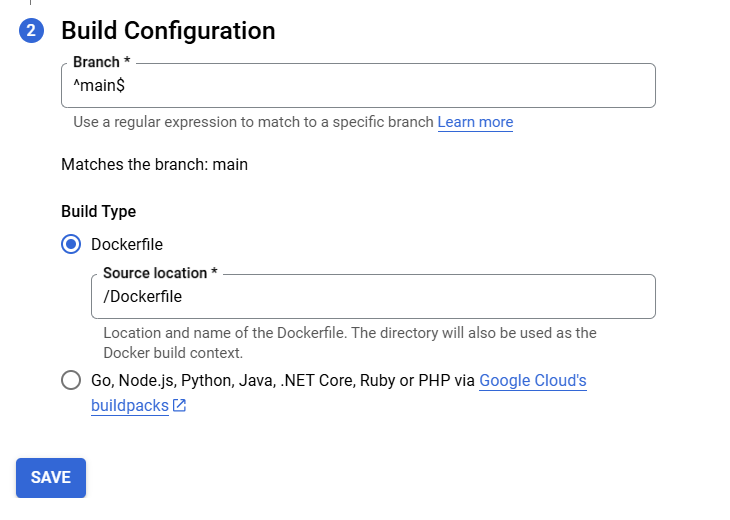
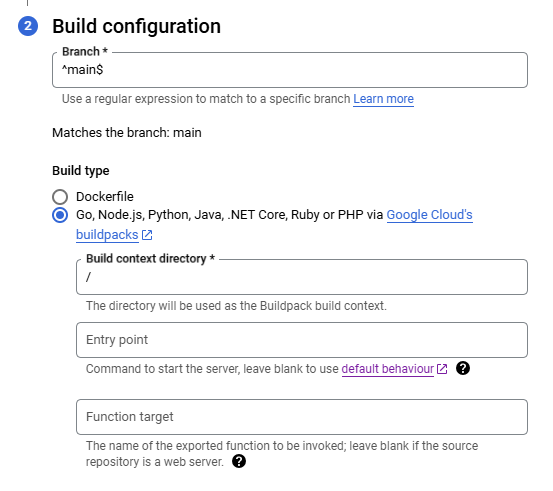
replace Dockerfile with Procfile and update instructions

diff --git a/README.md b/README.md
@@ -43,13 +43,13 @@ Step 5. Select the git repository
 
 ***
 
-Step 6. Tick the Dockerfile option
+Step 6. Select the "Google Cloud's buildpacks" option. Leave all the parameters empty: Cloud Run will figure out on its own that you are using Python. 
 
 ![Step 6](README_images/img5.png)
 
 ***
 
-Step 7. Select the region, allow unauthenticated invocations, allow internet traffic, then press Create
+Step 7. Select the region (europe-west2 in this case), allow unauthenticated invocations, allow internet traffic, then press Create
 
 ![Step 7](README_images/img6.png)
 
@@ -59,5 +59,36 @@ Voilà! Access the URL.
 
 ![Voilà](README_images/img7.png)
 
+# Going further
+
+## Modifying the code
+
+You commit some changes to your repository and watch how the service is updated automatically. 
+
+## Cleaning up
+
+Don't forget to delete the service when you are done. 
+
+![Deleting a service](README_images/delete.png)
+
+## Adding an API endpoint
+
+Add the following code in app.py 
+
+```	
+@app.route("/hello_api")
+def hello_api():
+    return {
+		"name": "Wrinkle Five Star",
+		"species": "Duck",
+		"breed": "American Pekin",
+		"hatching_date": "2020-09-09",
+		"sex": "Male"
+    }
+```
+
+Then test your endpoint
+
+![API endpoint](README_images/hello_api.png)
 
 
